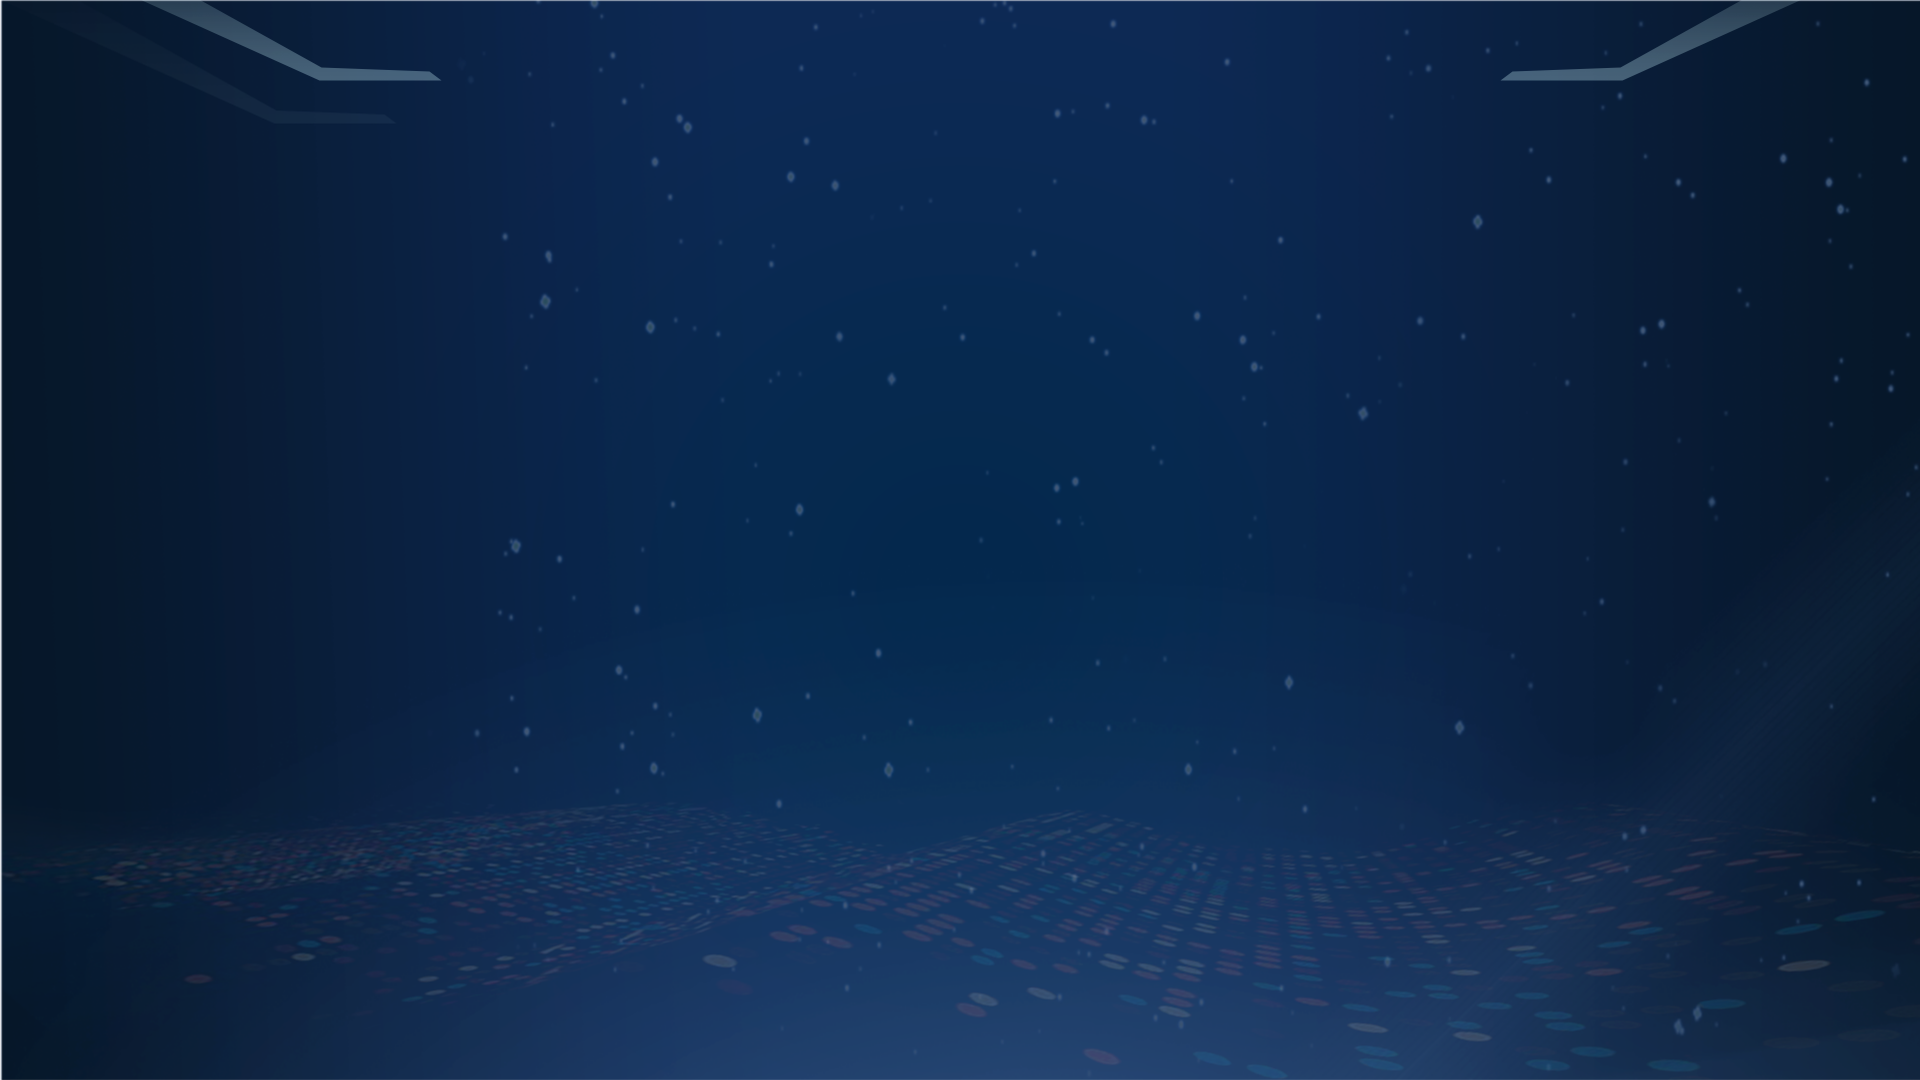
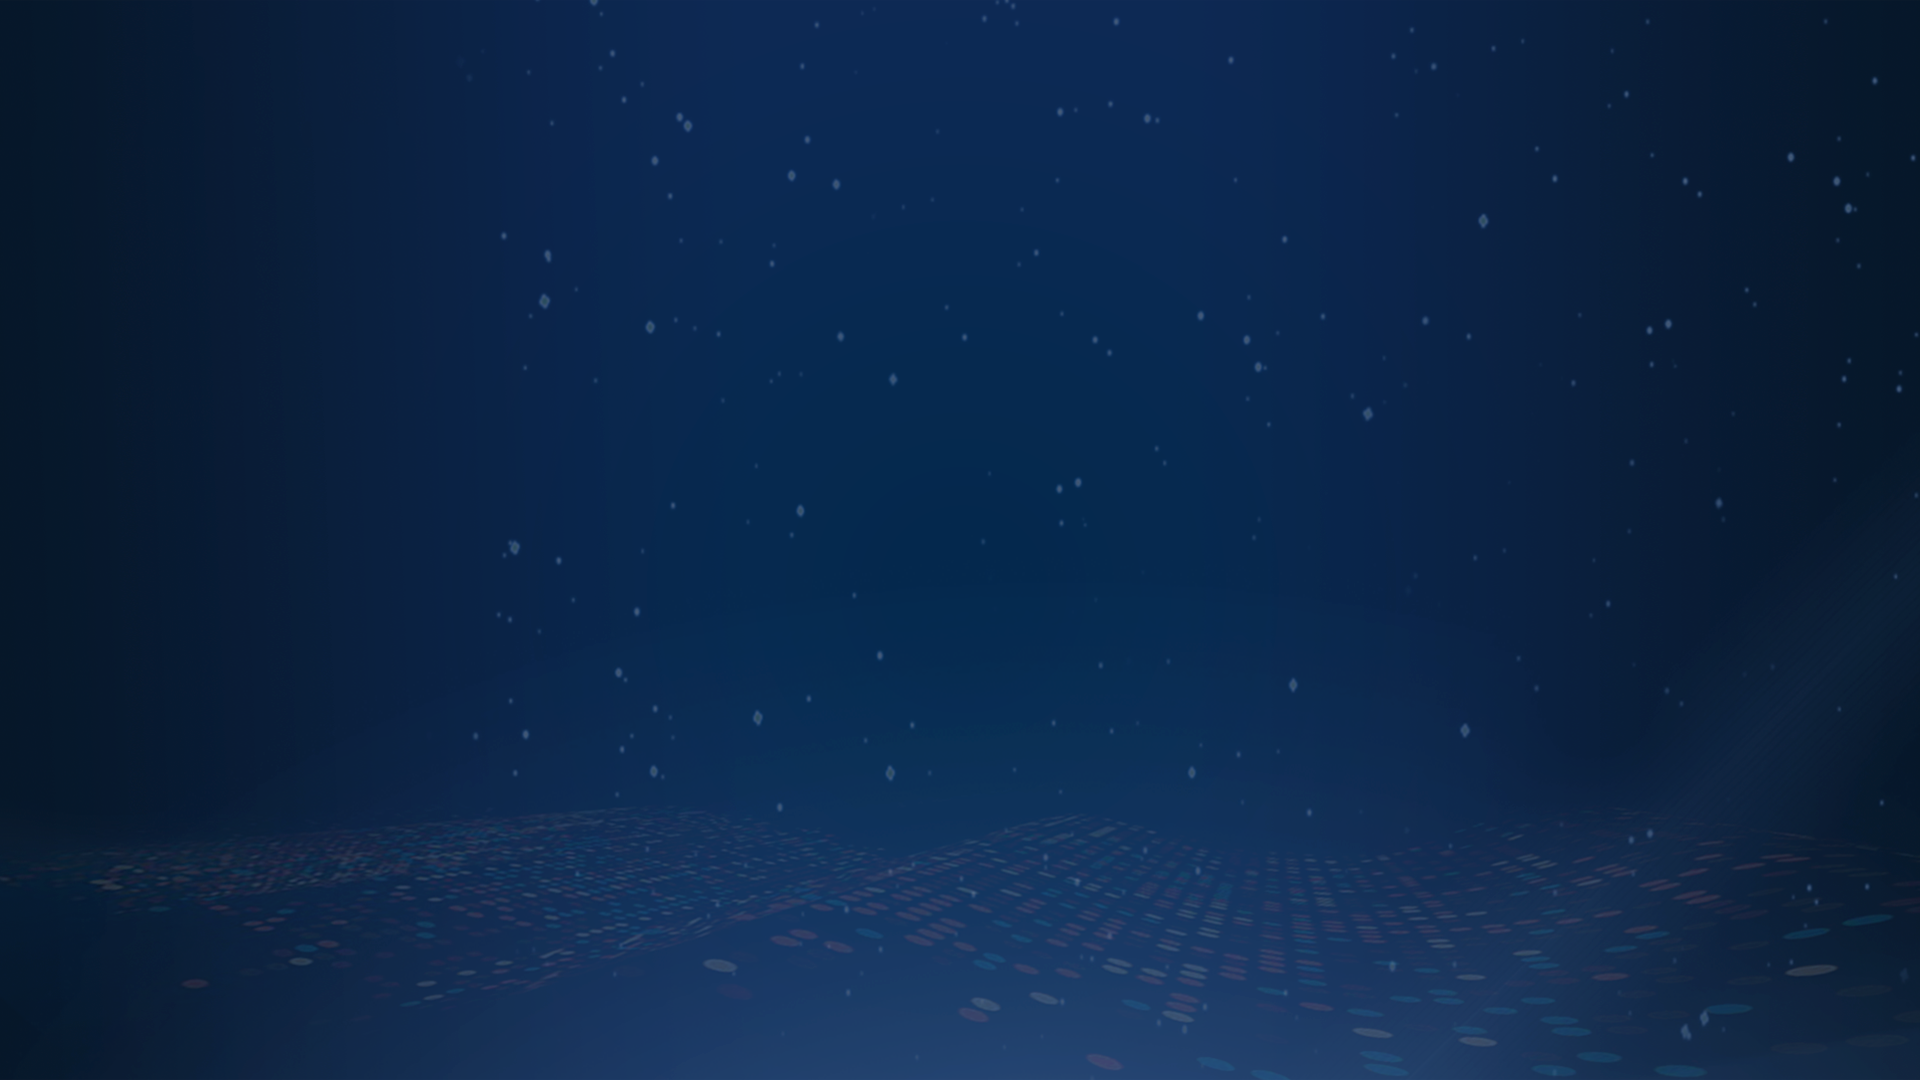
1、视频墙全屏时增加背景图片；2、隐藏全局滚动条。

diff --git a/src/utils/globalApi.js b/src/utils/globalApi.js
@@ -25,6 +25,11 @@ if (process.env.NODE_ENV === 'production') {
     }
   })
 } else {
+  // 来消防办公，内网地址改外网
+  // baseUrl = 'http://111.47.13.103:40009'
+  // mqttServer = '111.47.13.103'
+  // mqttPort = 40011
+  // headImg = 'http://111.47.13.103:40015'
   baseUrl = 'http://172.16.63.148:8850'
   mqttServer = '172.16.63.148'
   mqttPort = 2883

diff --git a/public/index.html b/public/index.html
@@ -11,7 +11,7 @@
     @import url(/webFs/assets/css/ms.css);
   </style>
 
-  <body>
+  <body class="browserScroll">
     <noscript>
       <strong>We're sorry but <%= htmlWebpackPlugin.options.title %> doesn't work properly without JavaScript enabled. Please enable it to continue.</strong>
     </noscript>

diff --git a/src/style/common.less b/src/style/common.less
@@ -51,6 +51,10 @@ ul {
   width: 10px;
 }
 
+.browserScroll::-webkit-scrollbar {
+  display: none;
+}
+
 /* --- 滚动条里面的滚动块 --- */
 .webFsScroll::-webkit-scrollbar-thumb {
   border-radius: 10px;

diff --git a/src/views/videoSystem/realVideo.vue b/src/views/videoSystem/realVideo.vue
@@ -2051,6 +2051,7 @@ export default {
   display: flex;
   flex-wrap: wrap;
   overflow: visible;
+  background-image: url('../../assets/images/bg.png');
 }
 .cutDialog {
   background: rgba(0, 0, 0, 0.6);

diff --git a/src/views/videoSystem/playback.vue b/src/views/videoSystem/playback.vue
@@ -1526,6 +1526,7 @@ export default {
   display: flex;
   flex-wrap: wrap;
   overflow: visible;
+  background-image: url('../../assets/images/bg.png');
 }
 
 // 全屏弹框
